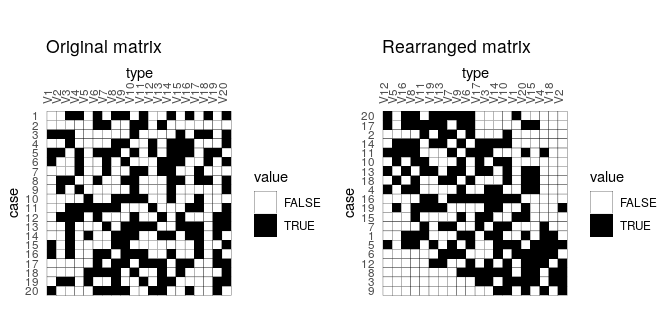
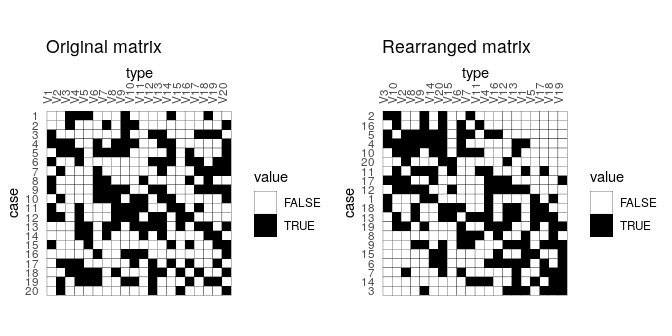
Add code of conduct

diff --git a/README.md b/README.md
@@ -12,7 +12,7 @@ tabula <img width=120px src="man/figures/logo.svg" align="right" />
 Overview
 --------
 
-`tabula` provides an easy way to examine archaeological count data (artifacts, faunal remains, etc.). This package includes several measures of diversity: e.g. richness and rarefaction (Chao1, Chao2, ACE, ICE, etc.), diversity/dominance and evenness (Brillouin, Shannon, Simpson, etc.), turnover and similarity (Brainerd-Robinson, ...). It also provides matrix seriation methods (reciprocal ranking, CA-based seriation, IDSS) for chronological modeling and dating. The package make it easy to visualize count data and statistical thresholds: rank/abundance plots, Ford and Bertin diagrams, etc.
+`tabula` provides an easy way to examine archaeological count data (artifacts, faunal remains, etc.). This package includes several measures of diversity: e.g. richness and rarefaction (Chao1, Chao2, ACE, ICE, etc.), diversity/dominance and evenness (Brillouin, Shannon, Simpson, etc.), turnover and similarity (Brainerd-Robinson, ...). It also provides matrix seriation methods (reciprocal ranking, CA-based seriation) for chronological modeling and dating. The package make it easy to visualize count data and statistical thresholds: rank/abundance plots, Ford and Bertin diagrams, etc.
 
 Installation
 ------------
@@ -38,10 +38,11 @@ Usage
 -   Abundance matrix:
     -   `CountMatrix` represents count data,
     -   `FrequencyMatrix` represents relative frequency data.
-    -   `SimilarityMatrix` represents a (dis)similarity matrix.
 -   Logical matrix:
     -   `IncidenceMatrix` represents presence/absence data.
     -   `OccurrenceMatrix` represents a co-occurence matrix.
+-   Numeric matrix:
+    -   `SimilarityMatrix` represents a (dis)similarity matrix.
 
 It assumes that you keep your data tidy: each variable (type/taxa) must be saved in its own column and each observation (sample/case) must be saved in its own row.
 
@@ -88,13 +89,10 @@ D <- as(A1, "OccurrenceMatrix")
 
 ``` r
 compiegne <- as(compiegne, "CountMatrix")
-richness(compiegne, method = c("margalef", "menhinick", "chao1"), simplify = TRUE)
-#>   margalef  menhinick chao1
-#> 5 1.176699 0.07933617    13
-#> 4 1.323459 0.07568907    15
-#> 3 1.412383 0.07905694    16
-#> 2 1.429741 0.08432155    16
-#> 1 1.428106 0.08381675    16
+richness(compiegne, method = "chao1")
+#> $chao1
+#>  5  4  3  2  1 
+#> 13 15 16 16 16
 ```
 
 #### Heterogeneity and evenness measures
@@ -122,12 +120,15 @@ The several methods can be used to acertain the degree of *turnover* in taxa com
 *β*-diversity can also be measured by addressing *similarity* between pairs of sites:
 
 ``` r
-mississippi <- as(mississippi, "CountMatrix")
-C <- similarity(mississippi, method = "brainerd")
-plotSpot(C)
+C <- similarity(compiegne, method = "brainerd")
+head(C)
+#>           5        4        3         2         1
+#> 5 200.00000 147.0860 104.6193  95.83558  92.00659
+#> 4 147.08600 200.0000 152.4492 124.83757 109.87089
+#> 3 104.61927 152.4492 200.0000 131.20713 104.81193
+#> 2  95.83558 124.8376 131.2071 200.00000 162.68247
+#> 1  92.00659 109.8709 104.8119 162.68247 200.00000
 ```
-
-![](man/figures/README-similarity-brainerd-1.png)
 
 ### Seriation
 
@@ -141,8 +142,8 @@ incidence <- IncidenceMatrix(data = sample(0:1, 400, TRUE, c(0.6, 0.4)),
 set.seed(12345)
 (indices <- seriate(incidence, method = "correspondance", margin = c(1, 2)))
 #> Permutation order for matrix seriation: 
-#>    Row order: 20 17 2 14 11 10 13 18 4 16 19 15 7 1 5 6 12 8 3 9 
-#>    Column order: 12 5 16 8 11 19 13 7 9 6 17 3 14 10 1 20 15 4 18 2 
+#>    Row order: 2 16 5 4 10 20 11 17 12 1 18 13 19 8 9 15 6 7 14 3 
+#>    Column order: 3 10 2 8 9 14 20 15 6 7 11 4 16 12 13 1 5 17 18 19 
 #>    Method: correspondance
 
 # Permute matrix rows and columns
@@ -199,5 +200,10 @@ plotRank(count, log = "xy")
 ```
 
 ![](man/figures/README-rank-1.png)
+
+Contributing
+------------
+
+Please note that the `tabula` project is released with a [Contributor Code of Conduct](CODE_OF_CONDUCT.md). By contributing to this project, you agree to abide by its terms.
 
 [1] Adapted from Dan Gopstein's original [spot matrix](https://dgopstein.github.io/articles/spot-matrix/).

diff --git a/CODE_OF_CONDUCT.md b/CODE_OF_CONDUCT.md
@@ -1,0 +1,25 @@
+# Contributor Code of Conduct
+
+As contributors and maintainers of this project, we pledge to respect all people who 
+contribute through reporting issues, posting feature requests, updating documentation,
+submitting pull requests or patches, and other activities.
+
+We are committed to making participation in this project a harassment-free experience for
+everyone, regardless of level of experience, gender, gender identity and expression,
+sexual orientation, disability, personal appearance, body size, race, ethnicity, age, or religion.
+
+Examples of unacceptable behavior by participants include the use of sexual language or
+imagery, derogatory comments or personal attacks, trolling, public or private harassment,
+insults, or other unprofessional conduct.
+
+Project maintainers have the right and responsibility to remove, edit, or reject comments,
+commits, code, wiki edits, issues, and other contributions that are not aligned to this 
+Code of Conduct. Project maintainers who do not follow the Code of Conduct may be removed 
+from the project team.
+
+Instances of abusive, harassing, or otherwise unacceptable behavior may be reported by 
+opening an issue or contacting one or more of the project maintainers.
+
+This Code of Conduct is adapted from the Contributor Covenant 
+(http://contributor-covenant.org), version 1.0.0, available at 
+http://contributor-covenant.org/version/1/0/0/
